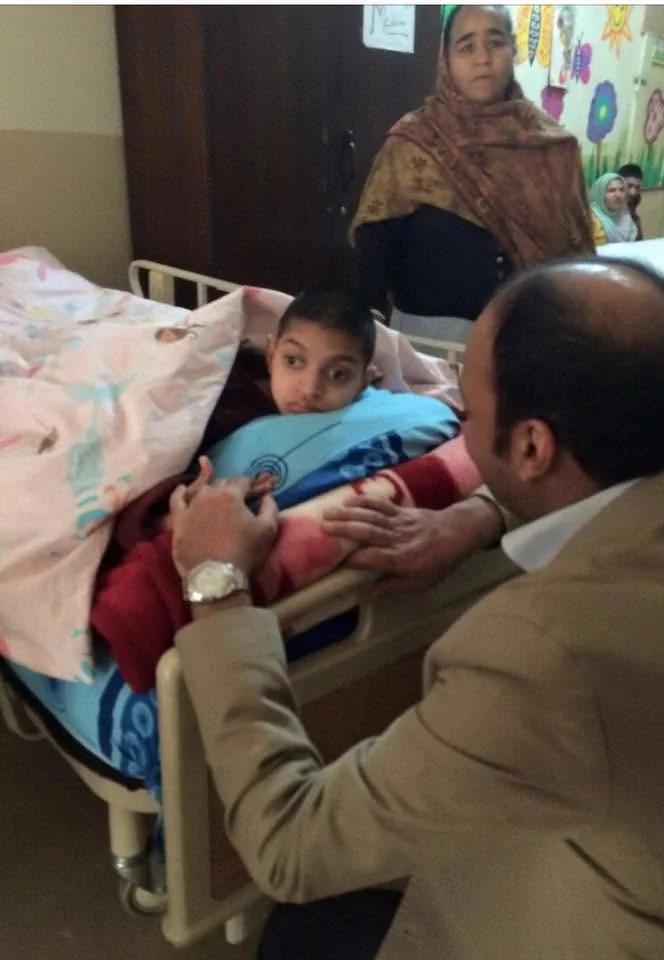
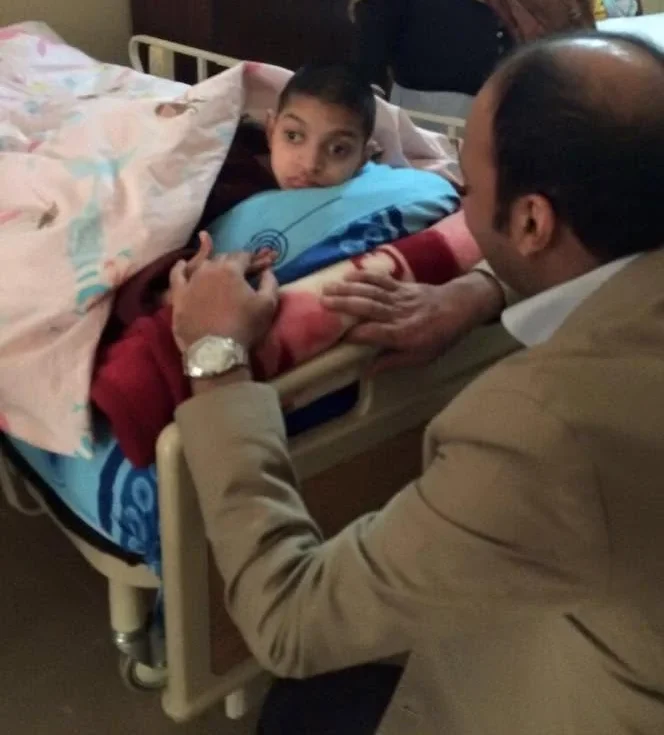
Sustainability: recrop Family First photo, remove Focus areas button
Claude-Session: https://claude.ai/code/session_019gMymePghk3WRCpa2UPwxG

diff --git a/v3bf/responsibility.html b/v3bf/responsibility.html
@@ -57,7 +57,6 @@
           <p class="mg__p1">A participant in the UN Global Compact since 2021, committed to its ten principles on human rights.</p>
           <div class="btn-row">
             <a class="btn btn--primary" href="#csr">Our community initiatives</a>
-            <a class="btn btn--outline" href="#focus-areas">Focus areas</a>
           </div>
         </div>
         <div class="mg__media"><img class="mg__img" src="../assets/img/social/ras-tanura-cup-team.webp" width="960" height="639" alt="Yassin Al Suroor with the winning team of the Yassin Al Suroor Cup youth league in Ras Tanura" fetchpriority="high" style="object-position: center"></div>
@@ -102,7 +101,7 @@
       </div>
           <div class="container stack" style="gap: 24px; margin-top: 56px">
         <h3 class="h3" style="font-size: 24px">Our community initiatives</h3>
-        <div class="gs-grid" data-manual><figure class="gs-card gs-big"><span class="gs-card__img"><img style="object-position:center 25%" src="../assets/img/social/guest.webp" width="681" height="900" alt="Yassin Al Suroor — Andrea Bocelli Foundation" loading="lazy" decoding="async"></span><figcaption>Andrea Bocelli Foundation</figcaption></figure><figure class="gs-card gs-tall"><span class="gs-card__img"><img style="object-position:center 25%" src="../assets/img/social/hospital-visit-child.webp" width="664" height="960" alt="Yassin Al Suroor — Family First" loading="lazy" decoding="async" style="object-position:center 40%"></span><figcaption>Family First</figcaption></figure><figure class="gs-card gs-tall"><span class="gs-card__img"><img style="object-position:center 25%" src="../assets/img/social/ras-tanura-cup-medal.webp" width="960" height="639" alt="Yassin Al Suroor — Rising Talent" loading="lazy" decoding="async" style="object-position:center 30%"></span><figcaption>Rising Talent</figcaption></figure><figure class="gs-card"><span class="gs-card__img"><img style="object-position:center 25%" src="../assets/img/social/visit-2.webp" width="624" height="900" alt="Yassin Al Suroor — Healthy Childhood" loading="lazy" decoding="async"></span><figcaption>Healthy Childhood</figcaption></figure><figure class="gs-card"><span class="gs-card__img"><img style="object-position:center 25%" src="../assets/img/social/visit-3.webp" width="632" height="900" alt="Yassin Al Suroor — Healing Together" loading="lazy" decoding="async"></span><figcaption>Healing Together</figcaption></figure><figure class="gs-card"><span class="gs-card__img"><img style="object-position:center 25%" src="../assets/img/social/trophy.webp" width="623" height="900" alt="Yassin Al Suroor — Future Champions" loading="lazy" decoding="async"></span><figcaption>Future Champions</figcaption></figure><figure class="gs-card"><span class="gs-card__img"><img style="object-position:center 25%" src="../assets/img/social/ras-tanura-cup-team.webp" width="960" height="639" alt="Yassin Al Suroor — Next Generation League" loading="lazy" decoding="async" style="object-position:center 40%"></span><figcaption>Next Generation League</figcaption></figure></div>
+        <div class="gs-grid" data-manual><figure class="gs-card gs-big"><span class="gs-card__img"><img style="object-position:center 25%" src="../assets/img/social/guest.webp" width="681" height="900" alt="Yassin Al Suroor — Andrea Bocelli Foundation" loading="lazy" decoding="async"></span><figcaption>Andrea Bocelli Foundation</figcaption></figure><figure class="gs-card gs-tall"><span class="gs-card__img"><img style="object-position:92% 50%" src="../assets/img/social/hospital-visit-child.webp" width="664" height="735" alt="Yassin Al Suroor — Family First" loading="lazy" decoding="async" style="object-position:center 40%"></span><figcaption>Family First</figcaption></figure><figure class="gs-card gs-tall"><span class="gs-card__img"><img style="object-position:center 25%" src="../assets/img/social/ras-tanura-cup-medal.webp" width="960" height="639" alt="Yassin Al Suroor — Rising Talent" loading="lazy" decoding="async" style="object-position:center 30%"></span><figcaption>Rising Talent</figcaption></figure><figure class="gs-card"><span class="gs-card__img"><img style="object-position:center 25%" src="../assets/img/social/visit-2.webp" width="624" height="900" alt="Yassin Al Suroor — Healthy Childhood" loading="lazy" decoding="async"></span><figcaption>Healthy Childhood</figcaption></figure><figure class="gs-card"><span class="gs-card__img"><img style="object-position:center 25%" src="../assets/img/social/visit-3.webp" width="632" height="900" alt="Yassin Al Suroor — Healing Together" loading="lazy" decoding="async"></span><figcaption>Healing Together</figcaption></figure><figure class="gs-card"><span class="gs-card__img"><img style="object-position:center 25%" src="../assets/img/social/trophy.webp" width="623" height="900" alt="Yassin Al Suroor — Future Champions" loading="lazy" decoding="async"></span><figcaption>Future Champions</figcaption></figure><figure class="gs-card"><span class="gs-card__img"><img style="object-position:center 25%" src="../assets/img/social/ras-tanura-cup-team.webp" width="960" height="639" alt="Yassin Al Suroor — Next Generation League" loading="lazy" decoding="async" style="object-position:center 40%"></span><figcaption>Next Generation League</figcaption></figure></div>
       </div>
     </section>
 
